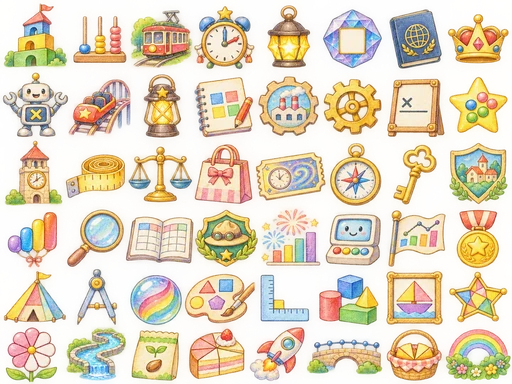
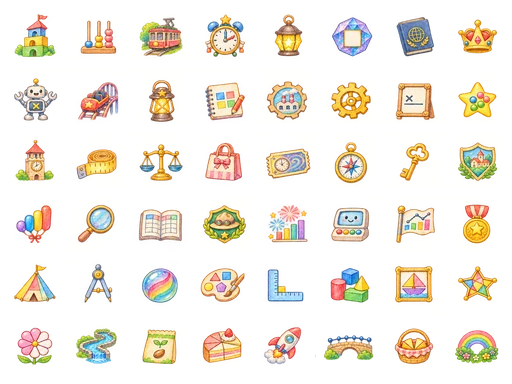
fix: isolate watercolor stamps in collection sheet

diff --git a/README.md b/README.md
@@ -1,4 +1,4 @@
-# 算数ワールドパーク GitHub Pages公開版 v41
+# 算数ワールドパーク GitHub Pages公開版 v42
 
 小学3年算数の20単元を、ブラウザだけで使える静的HTMLの学習アプリです。単元ごとに合計40,000問の問題プールを用意し、1セット10問で出題します。確認用の問題例と、単元別の問題生成ルールを組み合わせています。
 
@@ -109,3 +109,8 @@
 - 分数の入力式問題で「選びましょう」と表示される食い違いを修正し、分数で答える指示にそろえました。
 - 48種類のスタンプを、色鉛筆の線と水彩の色むらを生かしたイラストに差し替えました。
 - 40,000問を再走査し、出題形式と指示文の食い違い、選択肢ラベル順の誤りがないことを確認しました。
+
+
+### v42 スタンプを1個ずつ独立表示
+
+- スタンプ帳の48種類の絵を区画ごとに分け、各絵柄を中央に余白付きで配置し直しました。隣のスタンプの絵が入り込まない画像に差し替えています。
